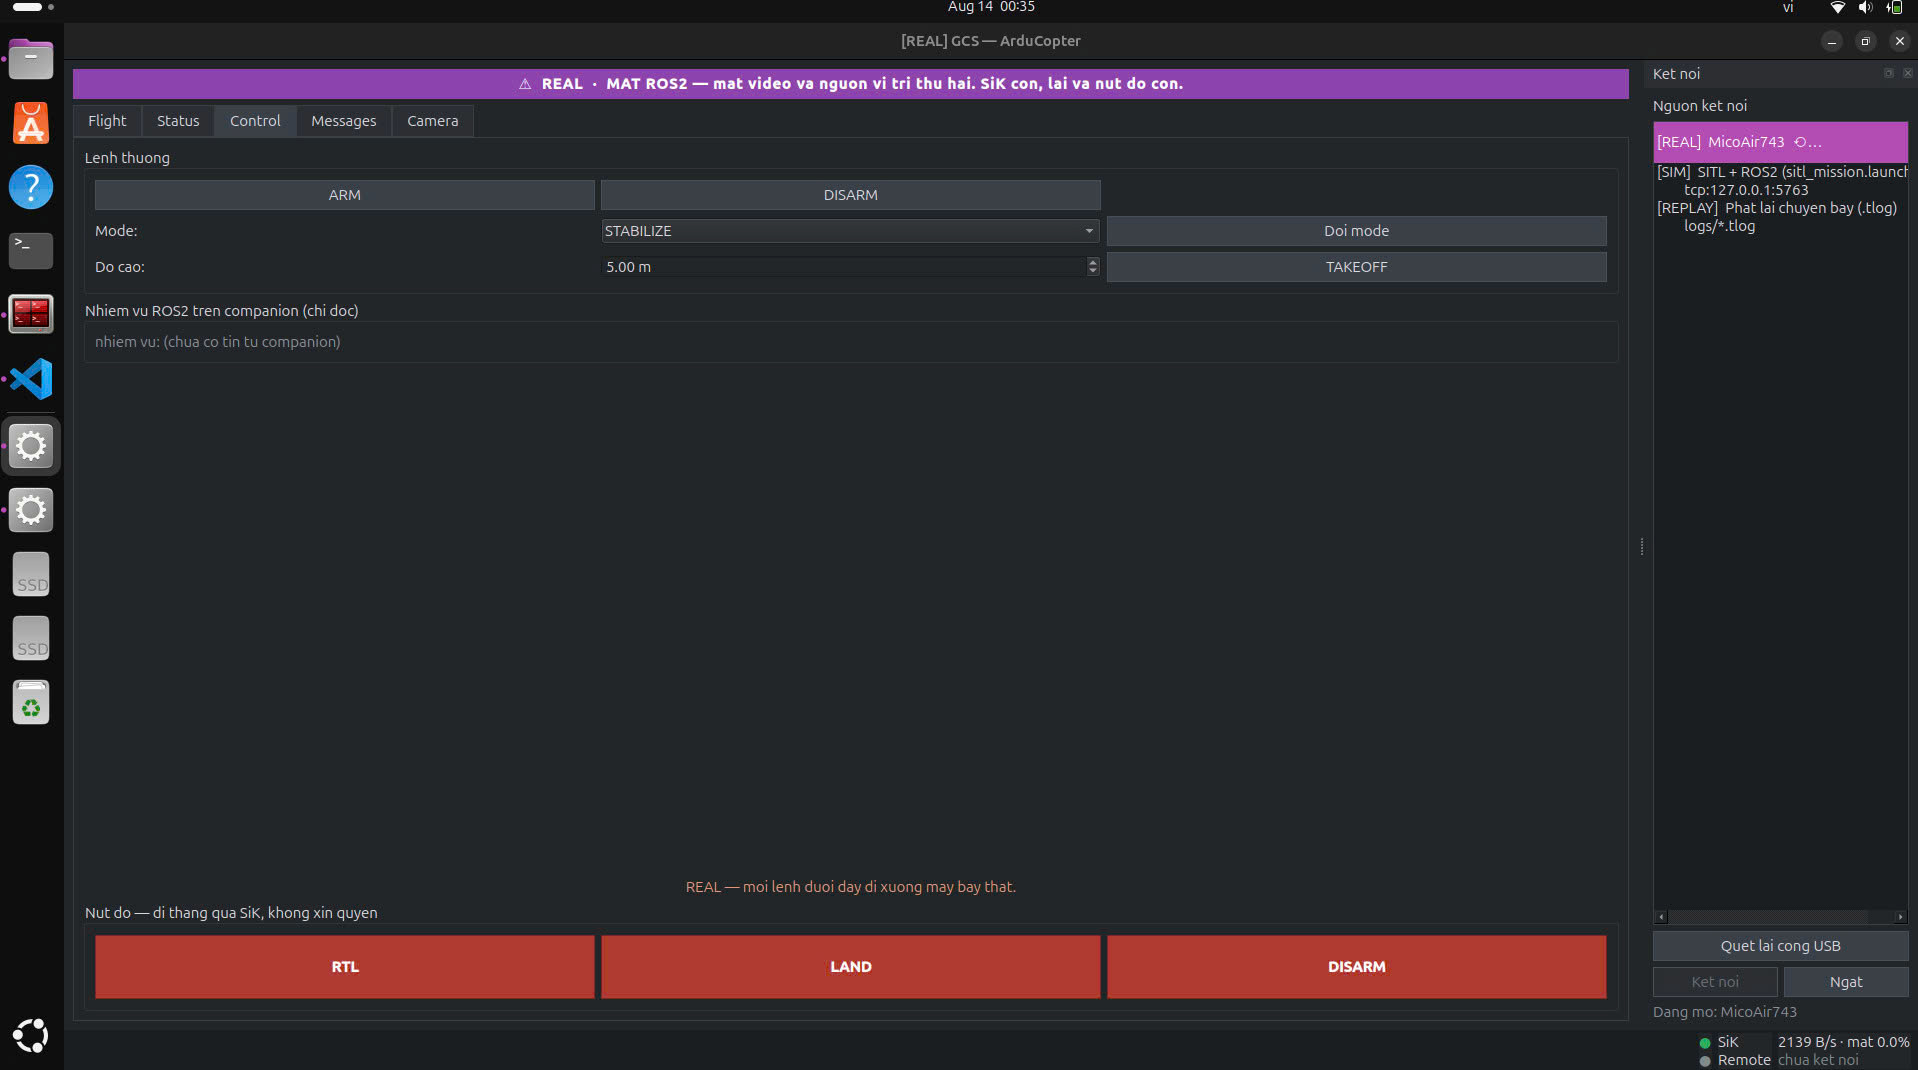
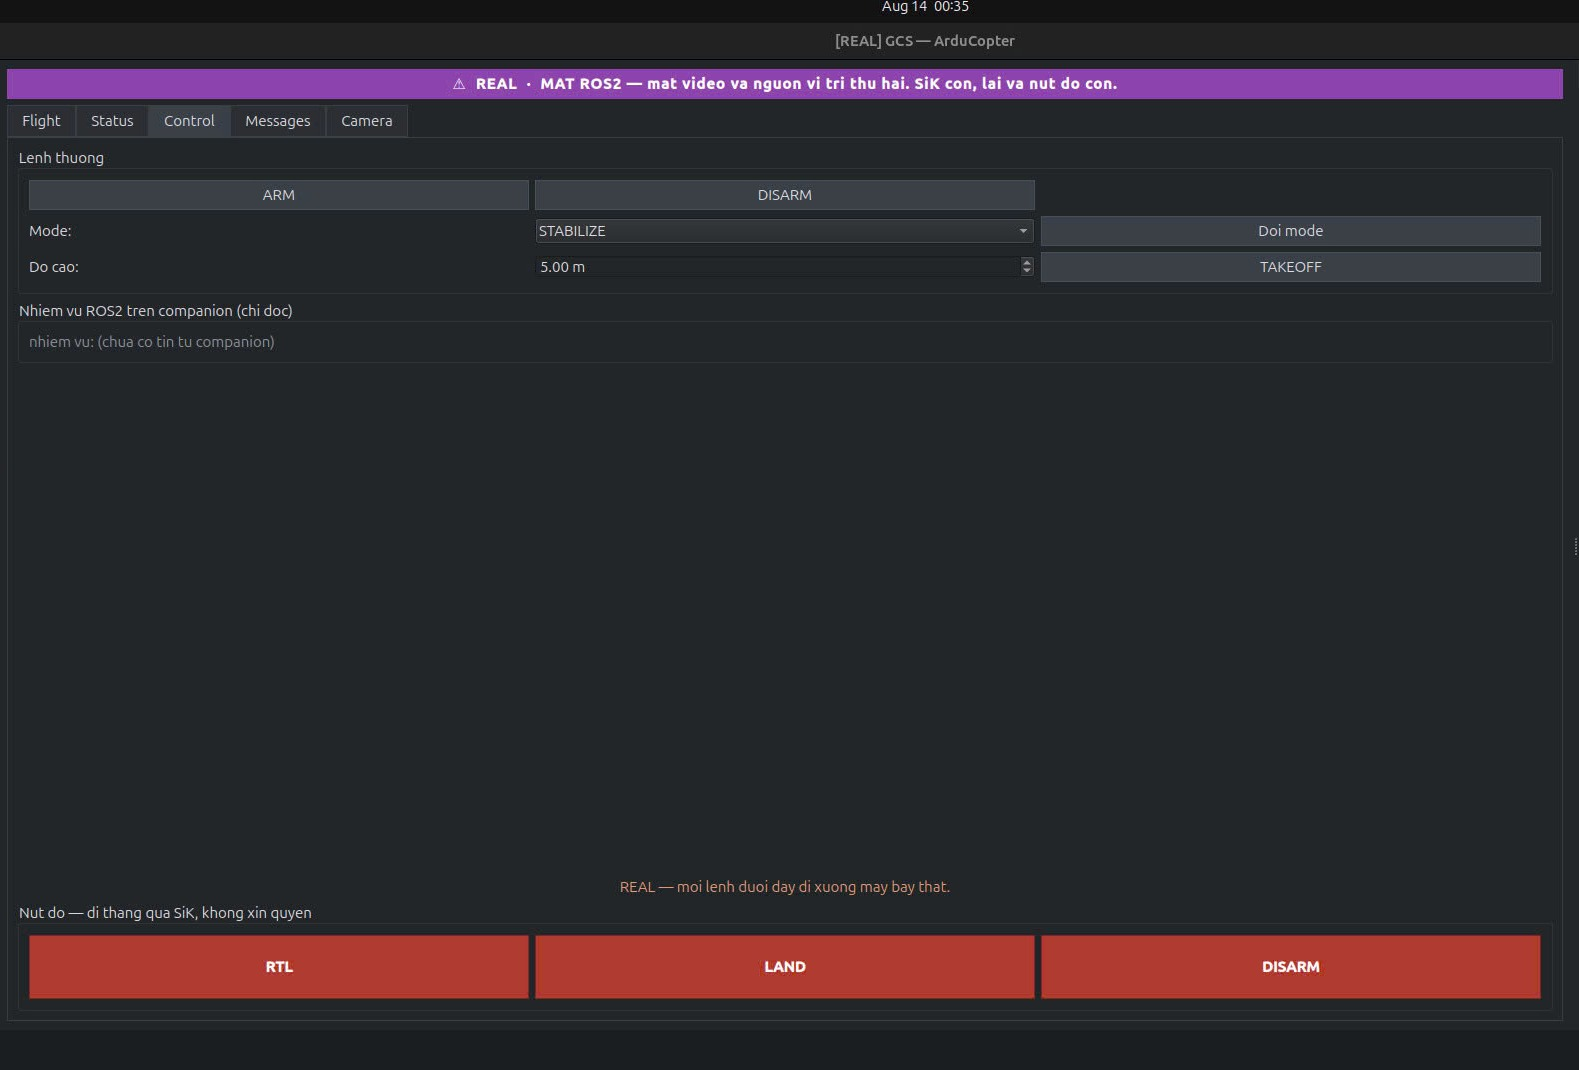
Cat bo dai chon nguon ben phai o bon anh phan cung, sua chu thich Hinh 5 cho khop

diff --git a/baocao/BAO_CAO_GIAO_DIEN.md b/baocao/BAO_CAO_GIAO_DIEN.md
@@ -103,10 +103,10 @@ Các số đo trên radio thật:
 
 Cơ chế xin lại luồng ở hàng cuối đáng nói thêm: thay vì chờ người vận hành phát hiện màn hình đứng hình rồi kết nối lại, ứng dụng tự nhận ra mình đã 5 giây không nhận được dữ liệu nào ngoài nhịp tim, rồi gửi lại toàn bộ yêu cầu luồng — tốn 7 gói khoảng 140 byte trên chiều lên vốn đang trống. Người vận hành chỉ thấy dữ liệu tiếp tục chạy.
 
-Bốn hình dưới đây chụp phiên làm việc với mạch Pixhawk 6C lúc 00:25–00:35 ngày 14/08/2026. Băng thông đo được ổn định trong khoảng **2 000 – 2 150 B/s** với tỉ lệ mất gói **0,0 %** ở cả bốn thời điểm.
+Bốn hình dưới đây chụp phiên làm việc với mạch Pixhawk 6C lúc 00:25–00:35 ngày 14/08/2026; ảnh đã cắt bỏ dải chọn nguồn bên phải cho gọn khung hình. Băng thông đọc trên widget trạng thái đường truyền ở cả bốn thời điểm nằm trong khoảng **2 000 – 2 150 B/s**, tỉ lệ mất gói **0,0 %**.
 
 ![Hình 5](anh/16_sik_flight.jpeg)
-*Hình 5 — Tab Flight ở chế độ REAL: banner đỏ được thay bằng thông báo suy giảm vì nửa ROS 2 chưa nối, bản đồ vệ tinh mức zoom 20, 21 vệ tinh, thanh trạng thái báo SiK 2 031 B/s · mất 0,0 %.*
+*Hình 5 — Tab Flight ở chế độ REAL: tiêu đề cửa sổ mang nhãn `[REAL]`, banner báo suy giảm vì nửa ROS 2 chưa nối, bản đồ vệ tinh mức zoom 20, thanh telemetry báo 21 vệ tinh và mode STABILIZE.*
 
 ![Hình 6](anh/13_sik_statusstatus.jpeg)
 *Hình 6 — Tab Status trên mạch Pixhawk 6C: 311 trường, mọi hàng đều khai nguồn `sik`. Bảng tự dài ra theo những gì mạch gửi lên, không khai báo trước trường nào.*
